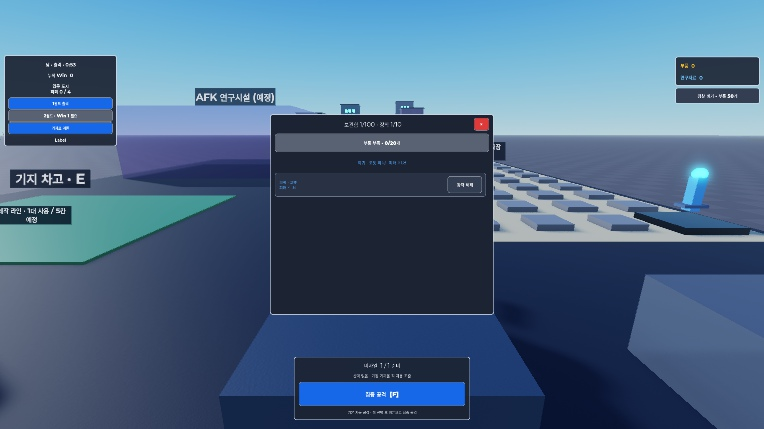
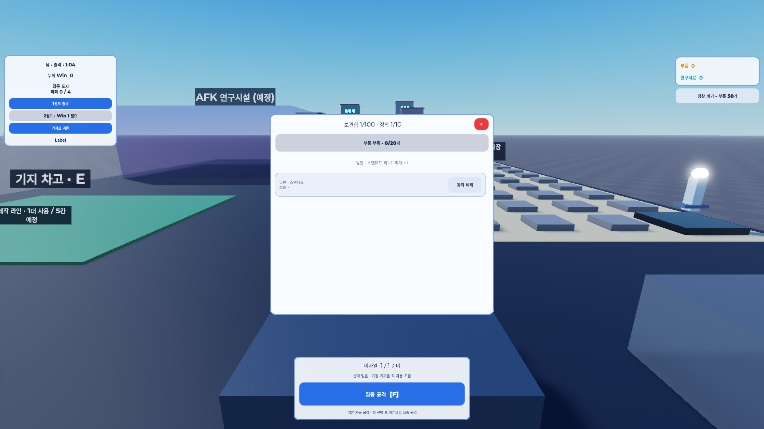
UI 테마를 v03 밝은 스타일로 교체 기록 (사용자 선택)

diff --git a/HISTORY.md b/HISTORY.md
@@ -239,3 +239,11 @@
 - 발견: 월드 패널 메시지 줄에 기본 글자 "Label"이 Play에서도 보임(기존 버그) → TODO 보류에 기록.
 - 미적용: 아이콘 이미지(Codex 제작 중), 아래 메뉴 바·HP/재장전 막대·카드 격자·영어 표기 등 배치 변경.
 - 문서: GDD_v0.3 11절에 UI 테마 한 단락. Save 안 함.
+
+## 2026-11-09 — UI 테마를 v03 밝은 스타일로 교체
+- 실행 컴퓨터: Windows `DESKTOP-RLF93FA`. 작업 폴더: `C:\ProjectMS`. 대상: Studio Place 122289987934213. TODO에 "Studio 사용 중" 표시.
+- 사용자 결정: Codex 진행 항목과 같은 `art/references/toy-city-v03/ui/01-gameplay-hud.png`(밝은 장난감 스타일)로 맞춤.
+- 백업: `ServerStorage.ProjectMSBackups.BeforeUIThemeV03_1794163558` (v02 어두운 SF UITheme).
+- Studio 변경: `ReplicatedStorage.PetMissiles.UITheme` 소스 교체 — 흰 패널+연한 파랑 테두리, 남색 글자, 파랑 알약 버튼(테두리 없음), 초록/주황/빨강/연회색, 모서리 12, 버튼 글자색을 배경 밝기에 따라 흰색/남색으로, 표에 없는 밝은 글자(희귀도 색)는 같은 색조로 45% 어둡게, 스크롤바 색. `UIThemeClient`는 그대로. Edit 미리보기 5개는 테마 전 원본(`BeforeUITheme_1794162905`)에서 다시 복제해 v03 적용.
+- 검증(실제 실행, Play 1인 Mock): 기지 1 차지·제작 후 Inventory 흰색+남색 제목, Roll(부족) 연회색+남색 글자, Close 빨강+흰 글자, 아이템 카드 연파랑, 희귀도 글자 (105,116,124), 장착 해제 밝은 보조색+남색 글자, Focus 파랑, 부품 (215,135,0)·연구자료 (20,140,210), 차고 버튼 밝은 보조색. 화면 `docs/ui-theme-play.jpg`(v03로 교체). Stop 후 Edit 카메라 정상.
+- 문서: GDD_v0.3 11절 UI 단락을 v03 기준으로 수정. TODO 갱신. Save 안 함.

diff --git a/TODO.md b/TODO.md
@@ -14,7 +14,6 @@ Claude·Codex 등 모든 AI 에이전트와 사용자가 함께 보는 **현재 
 기준일: 2026-11-09 KST · 기준 커밋: `8fb3fd0`
 
 ## 진행 중
-- [ ] UI 테마를 v03 밝은 스타일(toy-city-v03/ui/01-gameplay-hud.png)로 교체 — **Studio 사용 중** (Claude, 2026-11-09)
 - [ ] toy-city-v03/ui/01-gameplay-hud.png 기준 UI 이미지 재제작 및 업로드 매핑 (미사일 이미지 생성 제외 — 사용자 2026-11-09 지시) (Codex, 2026-11-09). art/ui/toy-city-v01/production-v03. 게임 코드 수정 없음.
 
 ## 사용자가 직접 할 일
@@ -53,7 +52,7 @@ n- [ ] UI 미리보기는 2026-11-09 캡처 시점 사본이다. UI 스크립트
 - [ ] 미검증: 2인 이상 동시 접속, 버기 대로 주행, 월드2 실제 진입, 모바일 실기기, 게시 서버 저장·재접속.
 
 ## 완료
-- [x] UI 색·모양 테마: Codex 시트 v02 색표, UITheme 모듈 + UIThemeClient, Edit 미리보기에도 적용 (Claude, 2026-11-09)
+- [x] UI 색·모양 테마: v02(어두운 SF)로 먼저 적용 후 사용자 선택으로 v03 밝은 스타일로 교체. UITheme + UIThemeClient, Edit 미리보기 포함 (Claude, 2026-11-09)
 - [x] 베이컨 보이 홍보 아트 수정: 중간 디테일 + 공중 미사일 3종, 가로/정사각 (Codex, 2026-11-09; 완료 커밋 Git 이력 참조), art/marketing/bacon-fleet-v02.
 - [x] 기지 차고 연결: Base_N.Layout.VehiclePad 프롬프트(E) → 탈것 메뉴, 주인만 (Claude, 2026-11-09)
 - [x] 큰 기지(80×110) 재배치: 제작 라인 6칸·전시장 50칸·기지 차고·AFK 연구시설 자리, 광장 가운데 공동 레이드 구역, 대로 140 바깥 이동, 보스 선 제거 (Claude, 2026-11-09)
